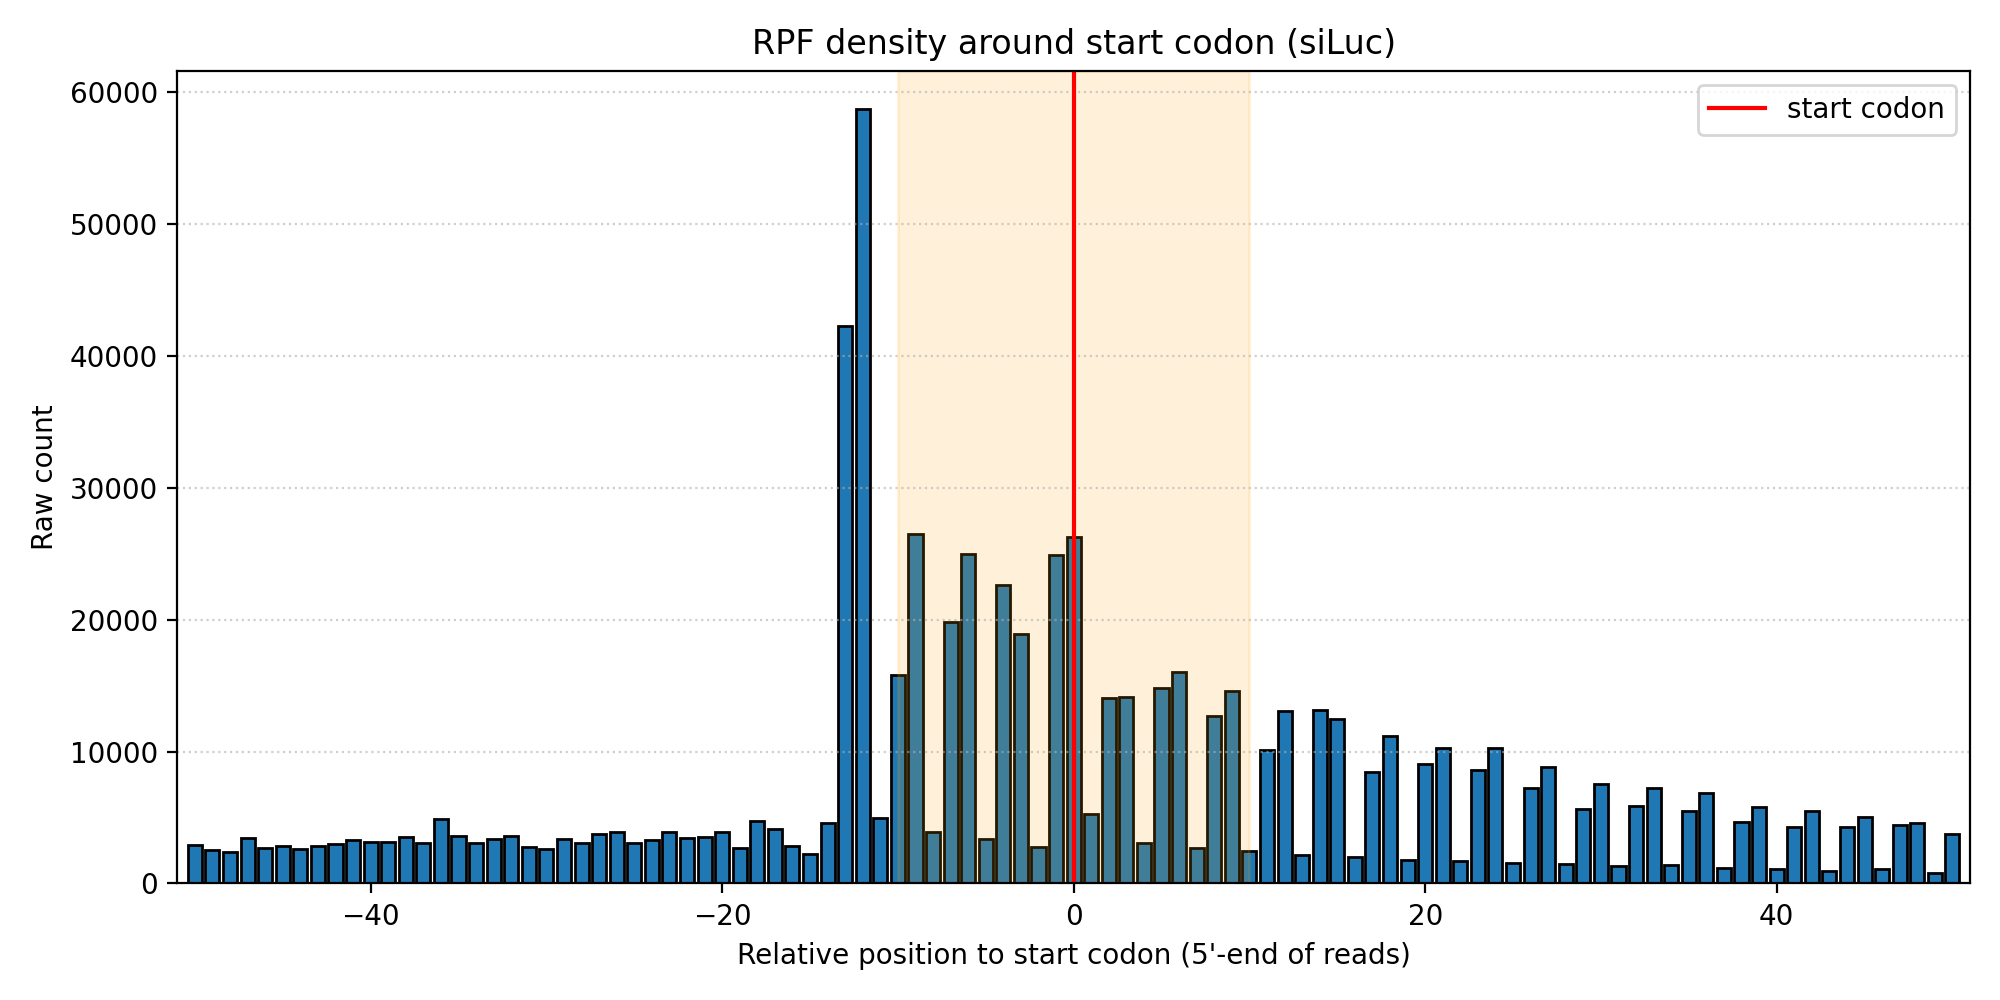
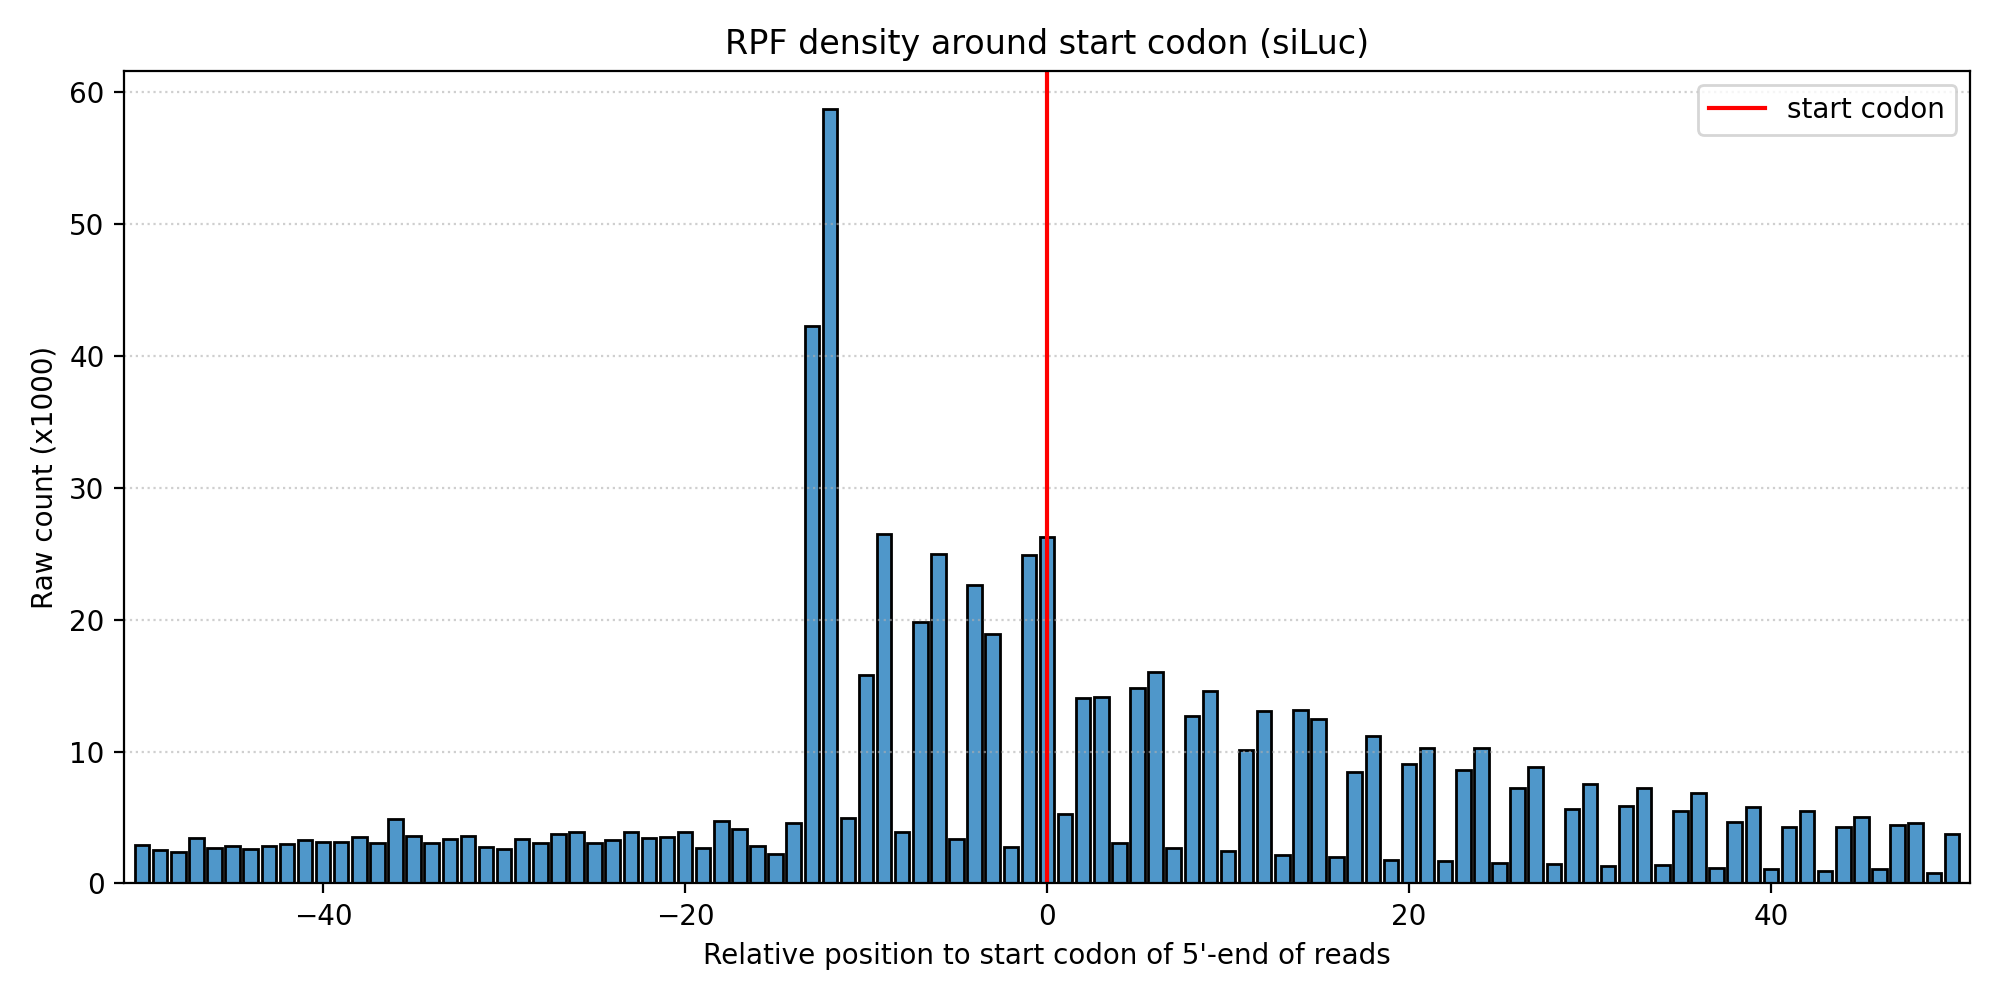
code and plot for start codon rpf density - siLuc edited

diff --git a/scripts/plot_start_codon_rpf_siLuc.py b/scripts/plot_start_codon_rpf_siLuc.py
@@ -43,18 +43,9 @@ def load_counts(path: Path) -> pd.DataFrame:
     )
 
 
-def compute_relative_position(df: pd.DataFrame) -> pd.Series:
-    # For plus-strand transcripts, 5' end is the read_start position.
-    # For minus-strand transcripts, 5' end is the read_end position.
-    read_5p = df['read_start'].where(df['strand'] == '+', df['read_end'])
-    rel = read_5p - df['start_codon']
-    rel = rel.where(df['strand'] == '+', -rel)
-    return rel
-
-
 def summarize_position_counts(df: pd.DataFrame, window: int) -> pd.Series:
     df = df.copy()
-    df['rel_pos'] = compute_relative_position(df)
+    df['rel_pos'] = df['read_start'] - df['start_codon']
     df = df[df['rel_pos'].between(-window, window)]
     summary = df.groupby('rel_pos')['count'].sum().reindex(range(-window, window + 1), fill_value=0)
     return summary
@@ -62,14 +53,14 @@ def summarize_position_counts(df: pd.DataFrame, window: int) -> pd.Series:
 
 def plot_start_codon_density(counts: pd.Series, output_path: Path, title: str) -> None:
     fig, ax = plt.subplots(figsize=(10, 5))
-    ax.bar(counts.index, counts.values, width=0.8, color='#1f77b4', edgecolor='black')
+    ax.bar(counts.index, counts.values/1000, width=0.8, color="#4f97ca", edgecolor='black')
 
     ax.axvline(0, color='red', linewidth=1.5, label='start codon')
-    ax.axvspan(-10, 10, color='orange', alpha=0.15)
+    #ax.axvspan(-12, 12, color='orange', alpha=0.15)
 
     ax.set_xlim(counts.index.min() - 1, counts.index.max() + 1)
-    ax.set_xlabel('Relative position to start codon (5\'-end of reads)')
-    ax.set_ylabel('Raw count')
+    ax.set_xlabel('Relative position to start codon of 5\'-end of reads')
+    ax.set_ylabel('Raw count (x1000)')
     ax.set_title(title)
     ax.grid(axis='y', linestyle=':', alpha=0.6)
     ax.legend(loc='upper right')